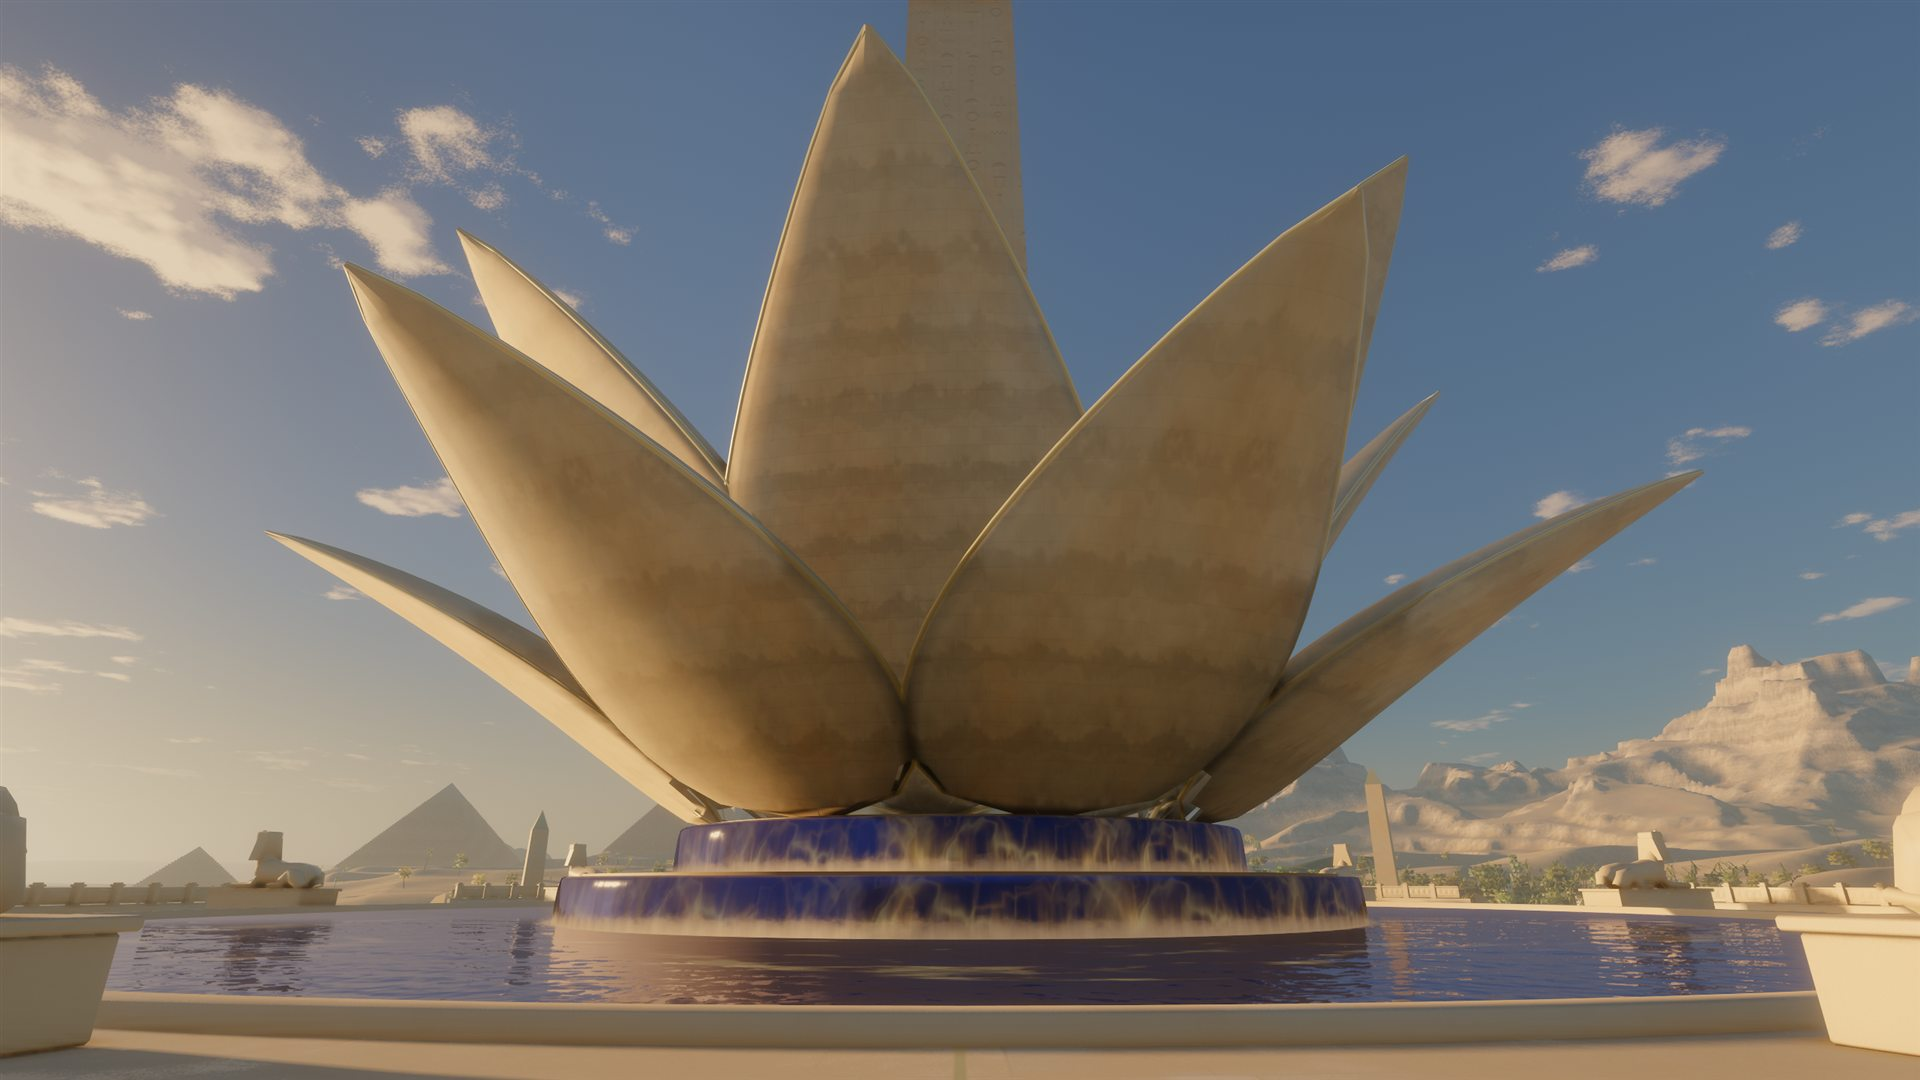
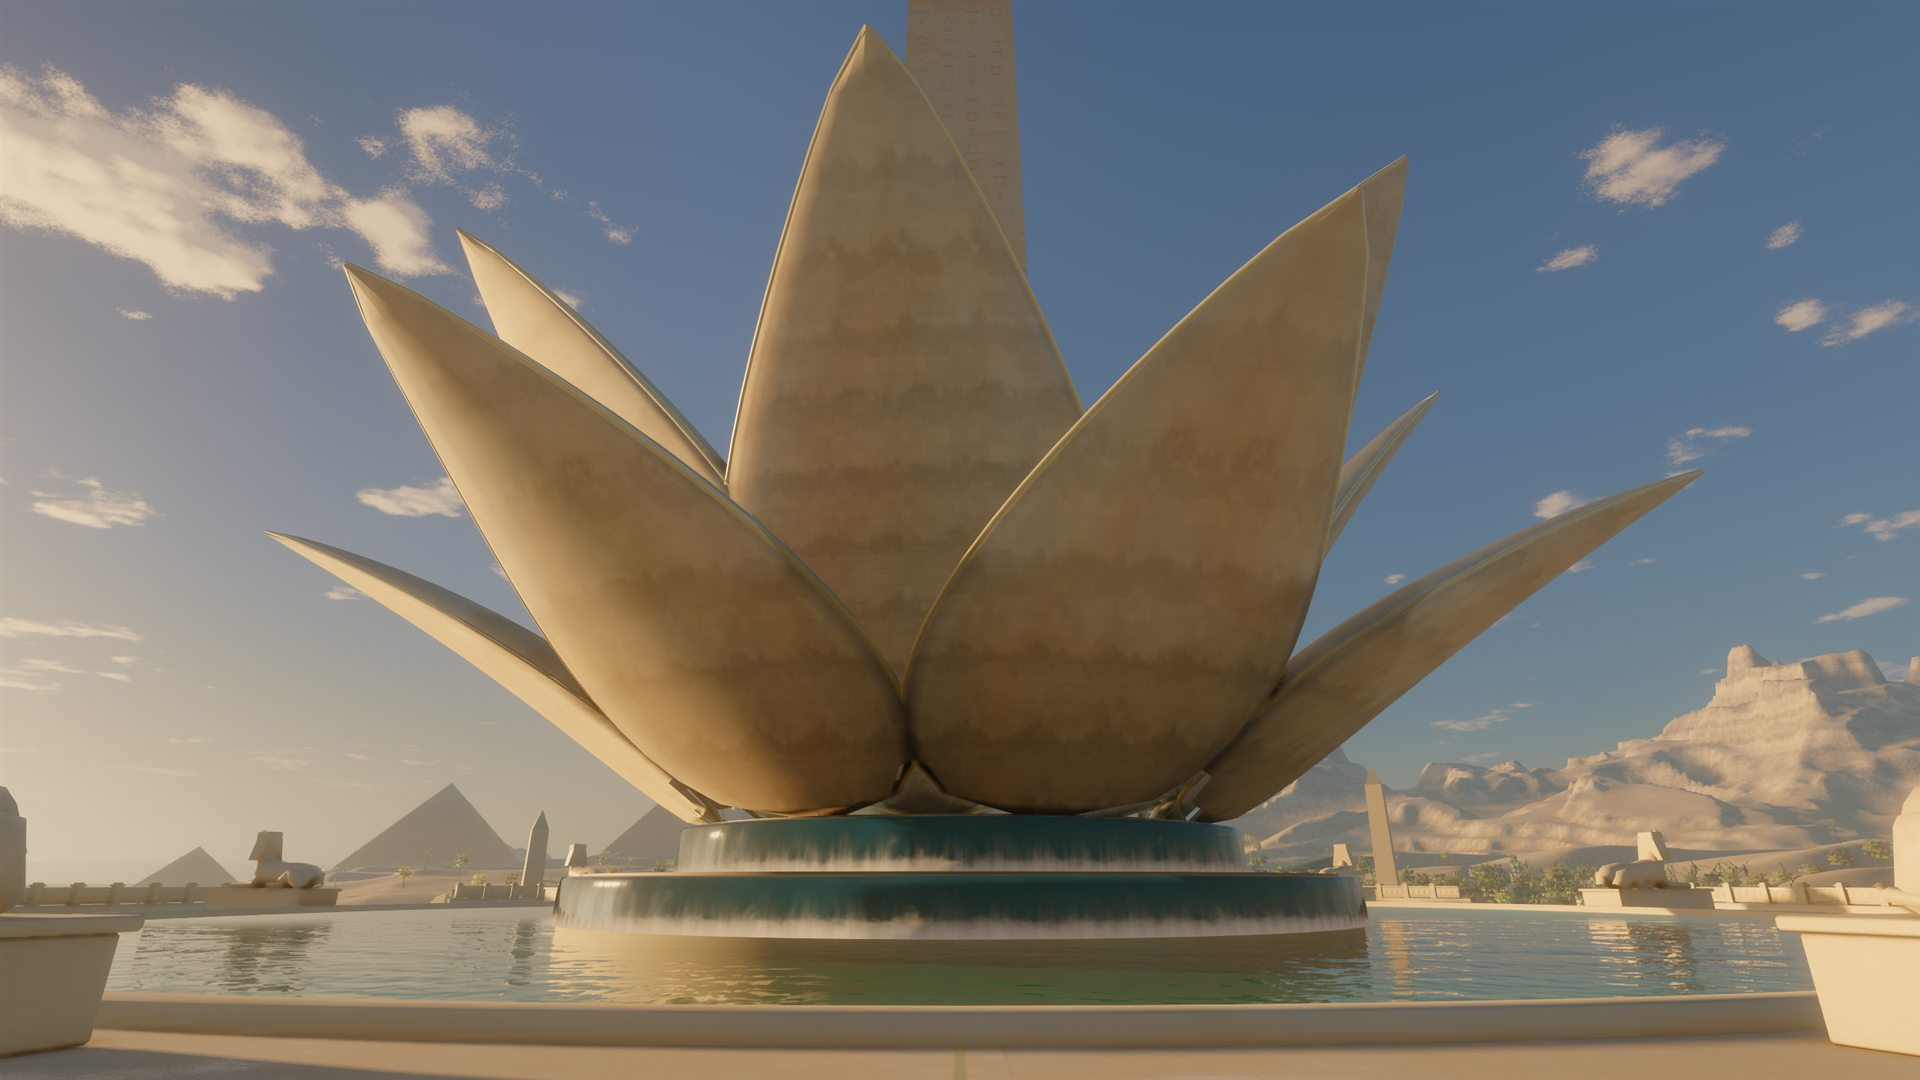
Docs: new lotus screenshot with clear water

Changed region(s): [[0.0312, 0.7333, 0.9688, 0.9472]]

diff --git a/artstyle.md b/artstyle.md
@@ -22,7 +22,7 @@ The city has been transformed from Atlantis into **Luxor, the lost city**: the s
 | Sky and haze | The same low WNW sun, with **dustier, warmer desert haze** |
 | "Inhabited, humid, abundant" | **Lost**: an oasis city half reclaimed by sand; lush only where water reaches; carved **hieroglyphs** (sunk relief in columns) on obelisks, pylons, walls and columns |
 
-The concept art in `concept-art/` shows Atlantis: use it only as the bar for rendering quality, lighting and composition, not for subject or palette. The yes/no tests of section 14 apply with the mapping above (e.g. test 5: rings and spokes around the obelisk; test 7: the obelisk and pyramids read as real dressed stone with metal caps; test 8: water present everywhere, including the lapis liquid; test 4: vegetation botanical, palms readable, lush only by water). Classical orders still do not belong; Egyptian forms (battered walls, cavetto cornices, papyrus columns, obelisks, pyramids, sphinxes) do.
+The concept art in `concept-art/` shows Atlantis: use it only as the bar for rendering quality, lighting and composition, not for subject or palette. The yes/no tests of section 14 apply with the mapping above (e.g. test 5: rings and spokes around the obelisk; test 7: the obelisk and pyramids read as real dressed stone with metal caps; test 8: water present everywhere, clear in the podium's pools and falls; test 4: vegetation botanical, palms readable, lush only by water). Classical orders still do not belong; Egyptian forms (battered walls, cavetto cornices, papyrus columns, obelisks, pyramids, sphinxes) do.
 
 ---
 

diff --git a/README.md b/README.md
@@ -29,7 +29,7 @@ Nothing to install, and it works offline. It needs a browser with **WebGPU**. If
 | | |
 |---|---|
 | ![A canal of Nile green below the temples](.github/screenshots/canal.jpg) | ![The pyramids and the great sphinx under the Theban cliffs](.github/screenshots/pyramids.jpg) |
-| ![The sandstone lotus and the lapis falls](.github/screenshots/lotus.jpg) | ![Sunset over the Nile and its far bank](.github/screenshots/nile.jpg) |
+| ![The sandstone lotus over the podium's falls and pool](.github/screenshots/lotus.jpg) | ![Sunset over the Nile and its far bank](.github/screenshots/nile.jpg) |
 
 ![The whole city from the air: rings, harbour, the Nile, the desert and the pyramids](.github/screenshots/aerial.jpg)
 
